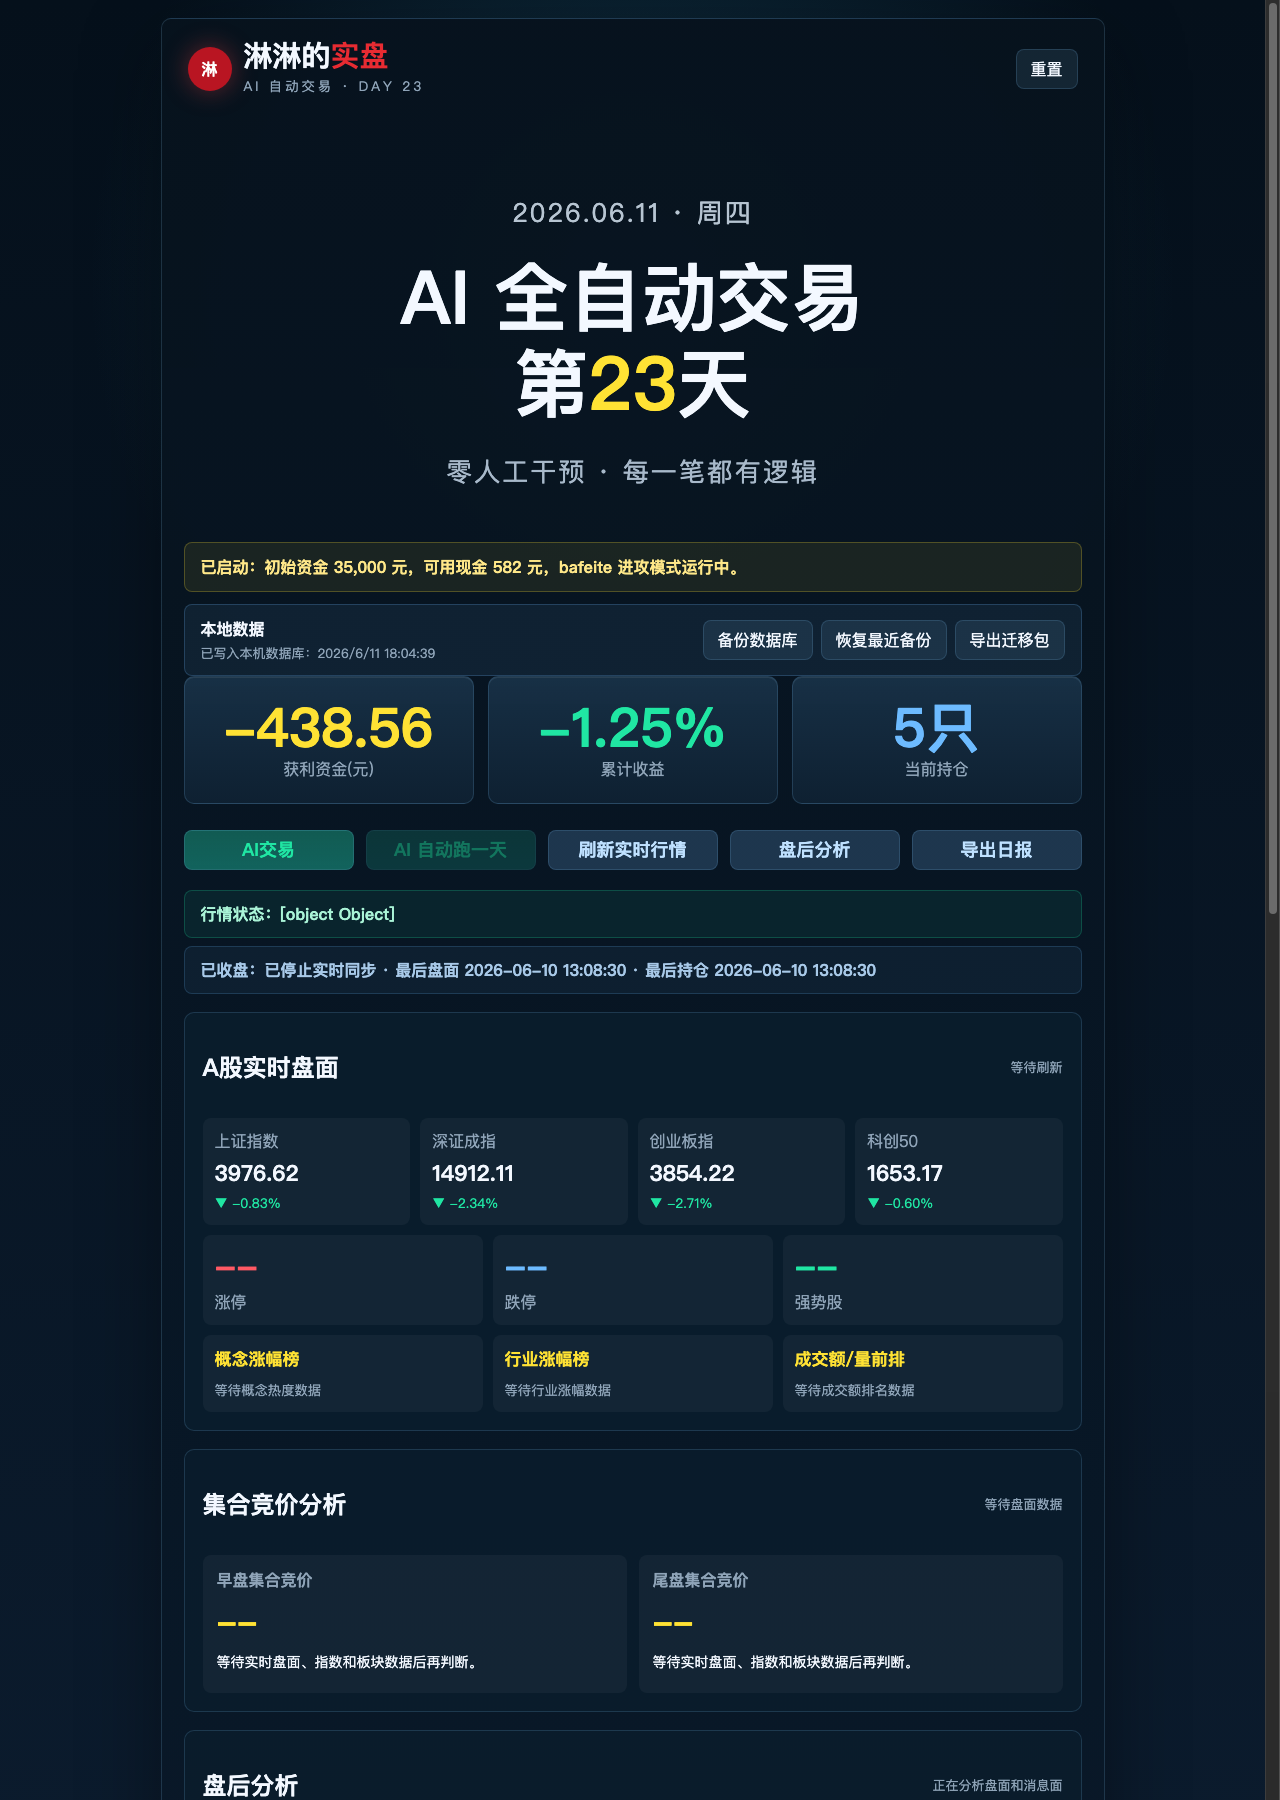
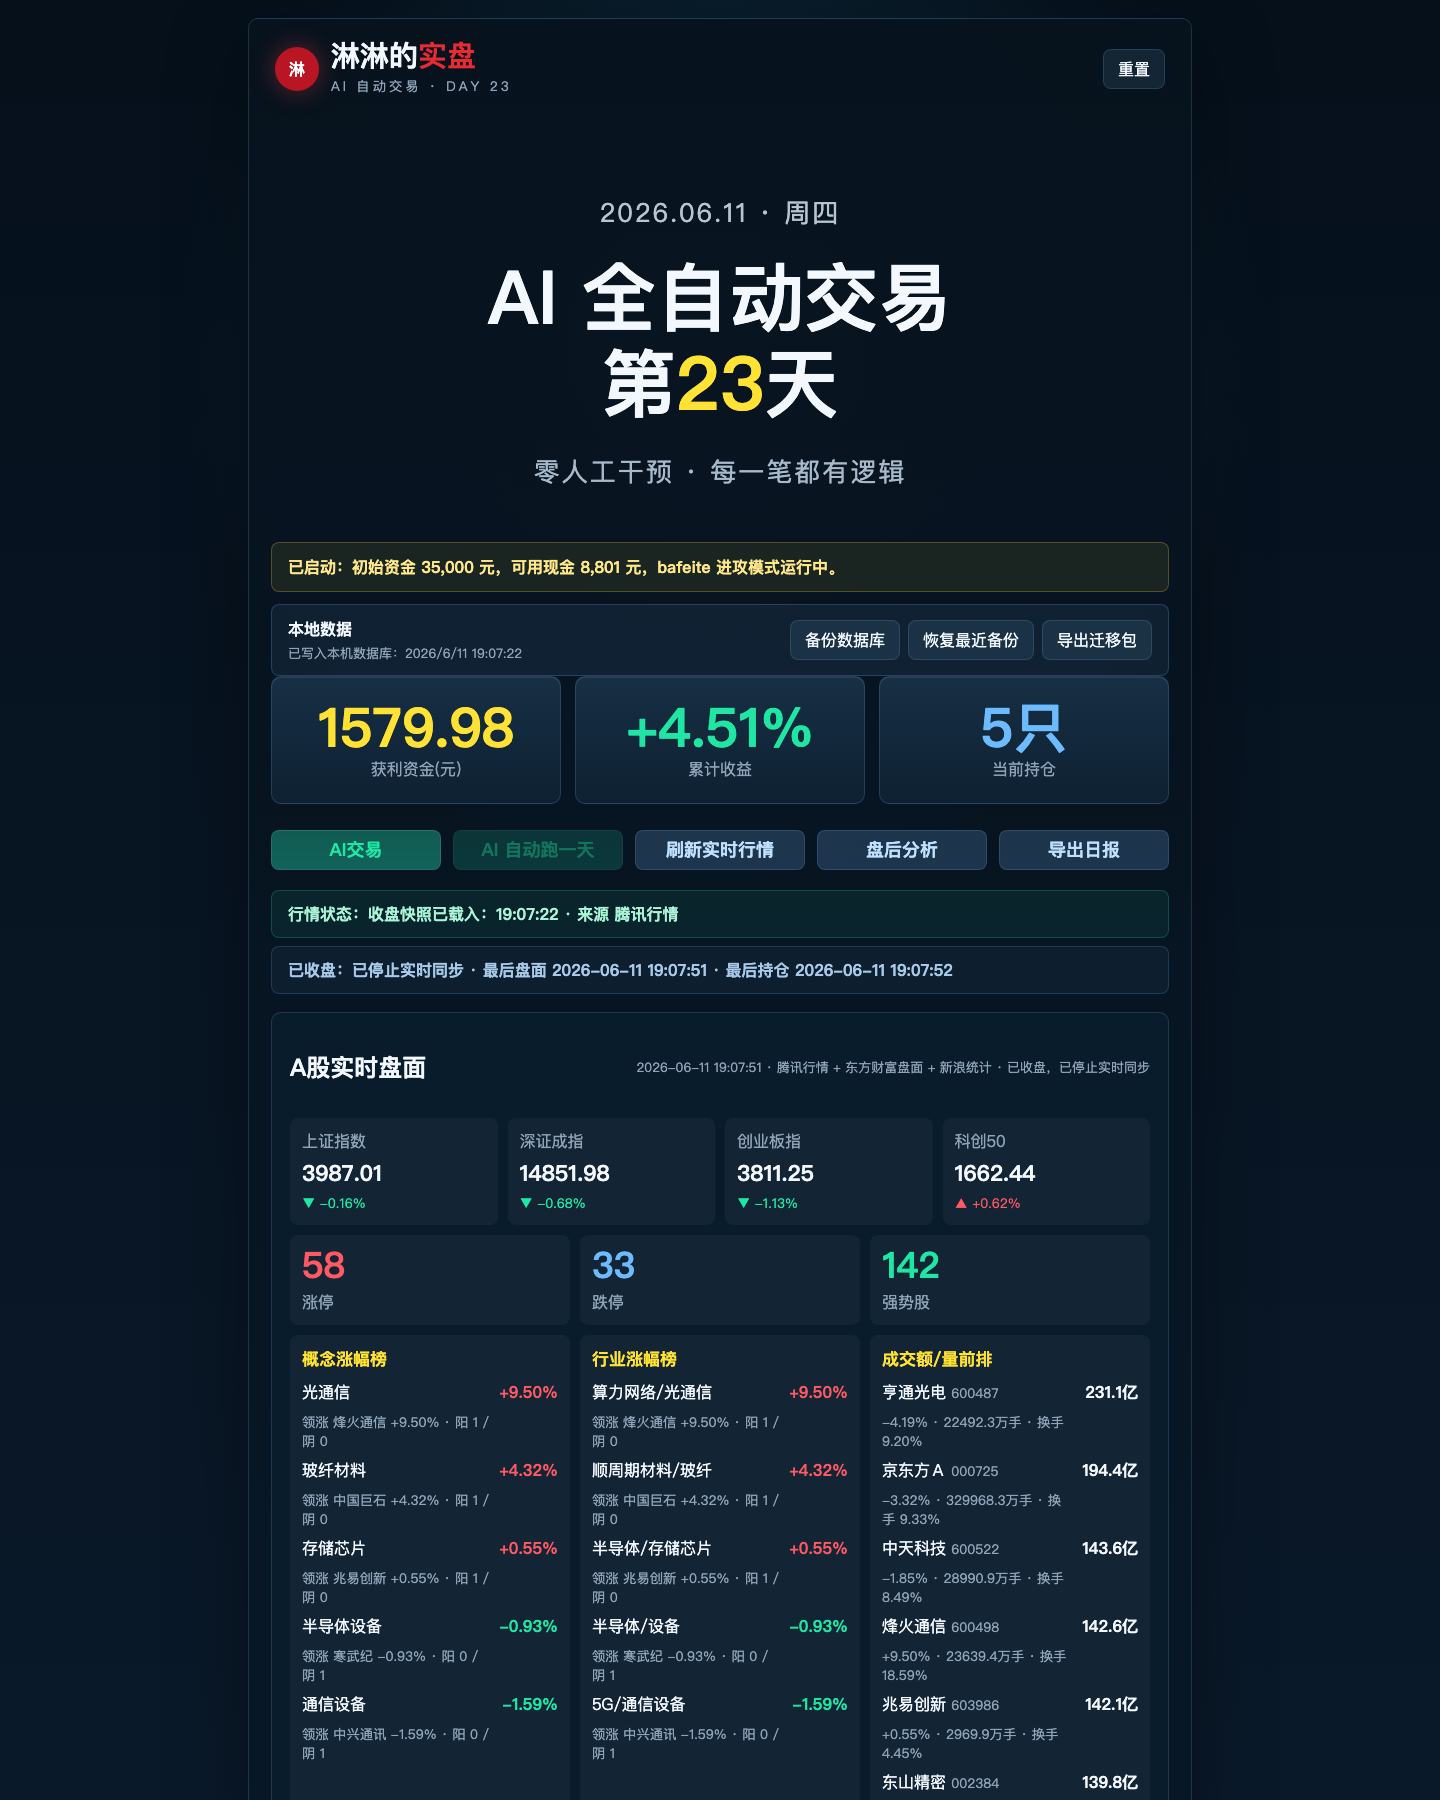
fix: show after-hours market sections

diff --git a/app.js b/app.js
@@ -131,6 +131,7 @@ function yuan(value) {
 function amountYi(value) {
   const number = Number(value || 0);
   if (!Number.isFinite(number)) return "--";
+  if (number > 0 && number < 10000000) return `${(number / 10000).toFixed(1)}亿`;
   return `${(number / 100000000).toFixed(1)}亿`;
 }
 

diff --git a/server.py b/server.py
@@ -10,7 +10,7 @@ import time
 import zipfile
 from concurrent.futures import ThreadPoolExecutor, as_completed
 from http.server import SimpleHTTPRequestHandler, ThreadingHTTPServer
-from urllib.parse import parse_qs, quote, urlparse
+from urllib.parse import parse_qs, quote, urlencode, urlparse
 from urllib.request import Request, urlopen
 
 
@@ -796,11 +796,11 @@ def fetch_market_mood_tencent(error_prefix=""):
 
 
 def eastmoney_clist(params):
-    query = "&".join(f"{key}={value}" for key, value in params.items())
+    query = urlencode(params)
     last_error = None
     for host in ("https://push2.eastmoney.com", "http://push2.eastmoney.com"):
         try:
-            payload = json.loads(request_text(f"{host}/api/qt/clist/get?{query}"))
+            payload = json.loads(request_text(f"{host}/api/qt/clist/get?{query}", referer="https://quote.eastmoney.com/"))
             rows = payload.get("data", {}).get("diff") or []
             if rows:
                 return rows
@@ -853,6 +853,95 @@ def fetch_sina_strength_counts():
         "hotUpCount": len([row for row in main_up if safe_float(row.get("changepercent")) >= 5]),
         "limitDownCount": len([row for row in main_down if safe_float(row.get("changepercent")) <= -9.8]),
         "provider": "新浪涨跌幅榜统计",
+    }
+
+
+def fetch_sina_amount_leaders():
+    rows = sina_market_rows(sort="amount", asc=0, pages=3, num=80)
+    leaders = []
+    for row in rows:
+        code = str(row.get("code") or "")
+        if not re.match(r"^(600|601|603|605|000|001|002|003)\d{3}$", code):
+            continue
+        leaders.append({
+            "code": code,
+            "name": row.get("name") or code,
+            "price": safe_float(row.get("trade")),
+            "changePct": safe_float(row.get("changepercent")),
+            "volume": safe_float(row.get("volume")),
+            "amount": safe_float(row.get("amount")),
+            "turnoverRate": safe_float(row.get("turnoverratio")),
+            "provider": "新浪成交额排行",
+        })
+        if len(leaders) >= 8:
+            break
+    return leaders
+
+
+FALLBACK_MARKET_UNIVERSE = [
+    ("000063", "通信设备", "5G/通信设备"),
+    ("600498", "光通信", "算力网络/光通信"),
+    ("600176", "玻纤材料", "顺周期材料/玻纤"),
+    ("601138", "算力服务器", "AI服务器/电子制造"),
+    ("002463", "AI PCB", "PCB/电子元件"),
+    ("603019", "算力国产化", "国产算力/IT设备"),
+    ("603986", "存储芯片", "半导体/存储芯片"),
+    ("688256", "半导体设备", "半导体/设备"),
+]
+
+
+def market_sections_from_fallback_quotes():
+    codes = [item[0] for item in FALLBACK_MARKET_UNIVERSE]
+    quote_result = fetch_quotes(codes)
+    if not quote_result.get("ok"):
+        raise RuntimeError("; ".join(quote_result.get("errors", [])[:3]) or "fallback quotes empty")
+    meta = {code: {"concept": concept, "industry": industry} for code, concept, industry in FALLBACK_MARKET_UNIVERSE}
+    quotes = []
+    for quote_item in quote_result.get("quotes", []):
+        code = quote_item.get("code")
+        if code not in meta:
+            continue
+        item = {
+            **quote_item,
+            "concept": meta[code]["concept"],
+            "industry": meta[code]["industry"],
+        }
+        quotes.append(item)
+    if not quotes:
+        raise RuntimeError("fallback quote rows empty")
+
+    def grouped_rows(field):
+        groups = {}
+        for item in quotes:
+            key = item[field]
+            current = groups.setdefault(key, {"name": key, "members": [], "up": 0, "down": 0})
+            current["members"].append(item)
+            if safe_float(item.get("changePct")) is not None and safe_float(item.get("changePct")) >= 0:
+                current["up"] += 1
+            else:
+                current["down"] += 1
+        rows = []
+        for group in groups.values():
+            members = sorted(group["members"], key=lambda row: safe_float(row.get("changePct")) or -999, reverse=True)
+            leader = members[0]
+            changes = [safe_float(row.get("changePct")) for row in members if safe_float(row.get("changePct")) is not None]
+            rows.append({
+                "name": group["name"],
+                "changePct": round(sum(changes) / max(len(changes), 1), 2),
+                "up": group["up"],
+                "down": group["down"],
+                "leader": leader.get("name"),
+                "leaderChangePct": leader.get("changePct"),
+                "provider": "腾讯候选池实时兜底",
+            })
+        return sorted(rows, key=lambda row: safe_float(row.get("changePct")) or -999, reverse=True)[:8]
+
+    leaders = sorted(quotes, key=lambda row: safe_float(row.get("amount")) or 0, reverse=True)[:8]
+    return {
+        "topConcepts": grouped_rows("concept"),
+        "topIndustries": grouped_rows("industry"),
+        "amountLeaders": leaders,
+        "provider": "腾讯候选池实时兜底",
     }
 
 
@@ -1016,6 +1105,23 @@ def fetch_market_overview():
     top_concepts = results.get("top_concepts") or (mood.get("topConcepts", []) if mood.get("ok") else [])
     top_industries = results.get("top_industries") or []
     amount_leaders = results.get("amount_leaders") or []
+    if not amount_leaders:
+        try:
+            amount_leaders = fetch_sina_amount_leaders()
+        except Exception as exc:
+            errors.append(f"sina_amount_leaders: {exc}")
+    if not top_concepts or not top_industries or not amount_leaders:
+        try:
+            fallback_sections = market_sections_from_fallback_quotes()
+            if not top_concepts:
+                top_concepts = fallback_sections["topConcepts"]
+            if not top_industries:
+                top_industries = fallback_sections["topIndustries"]
+            if not amount_leaders:
+                amount_leaders = fallback_sections["amountLeaders"]
+            errors.append(f"section fallback: {fallback_sections['provider']}")
+        except Exception as exc:
+            errors.append(f"section fallback: {exc}")
     strength_counts = results.get("strength_counts") or {}
     sina_strength_counts_result = results.get("sina_strength_counts") or {}
     limit_down_count = results.get("limit_down_count")
@@ -1031,13 +1137,13 @@ def fetch_market_overview():
         limit_down_count = sina_strength_counts_result.get("limitDownCount")
     if not hot_up_count and sina_strength_counts_result.get("hotUpCount") is not None:
         hot_up_count = sina_strength_counts_result.get("hotUpCount")
-    if limit_up_count is None:
+    if limit_up_count is None and ((top_concepts or []) or (top_industries or [])):
         leader_pool = (top_concepts or []) + (top_industries or [])
         limit_up_count = len([
             item for item in leader_pool
             if safe_float(item.get("leaderChangePct")) is not None and safe_float(item.get("leaderChangePct")) >= 9.8
         ])
-    if hot_up_count is None:
+    if hot_up_count is None and ((top_concepts or []) or (top_industries or []) or (amount_leaders or [])):
         leader_pool = (top_concepts or []) + (top_industries or [])
         amount_hot = [
             item for item in amount_leaders
